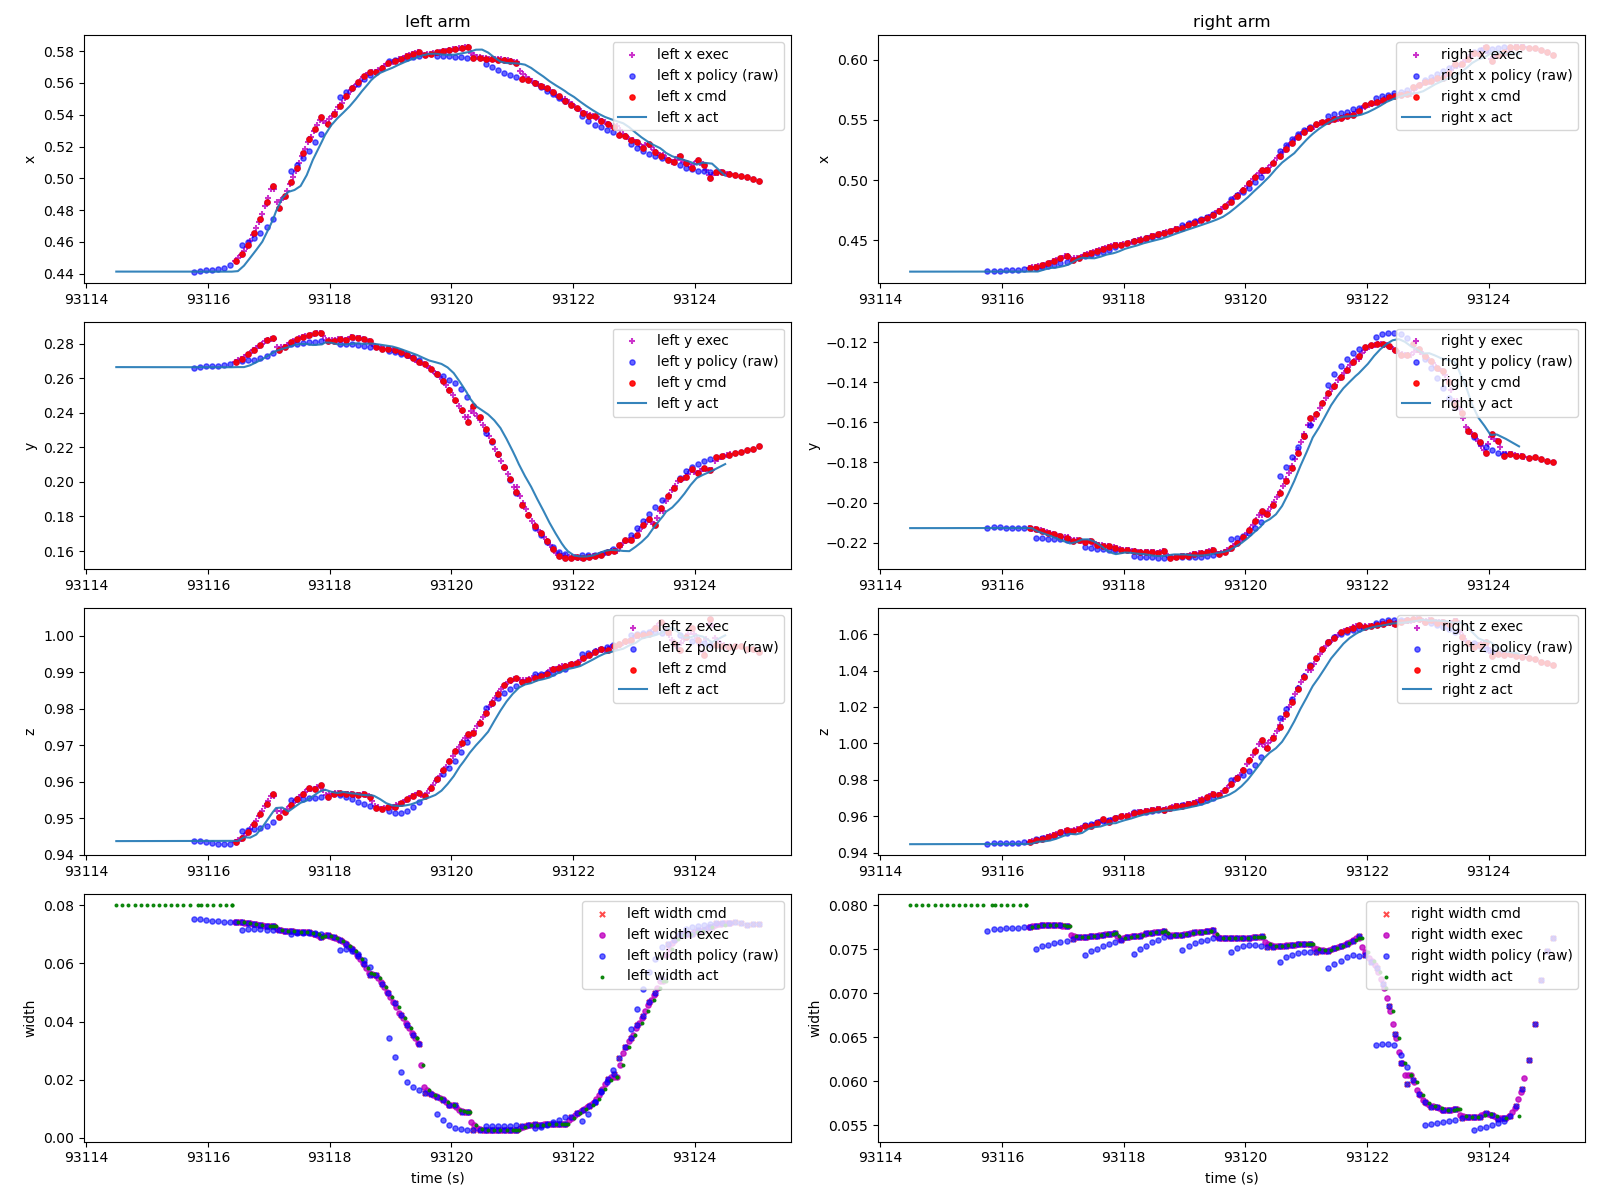
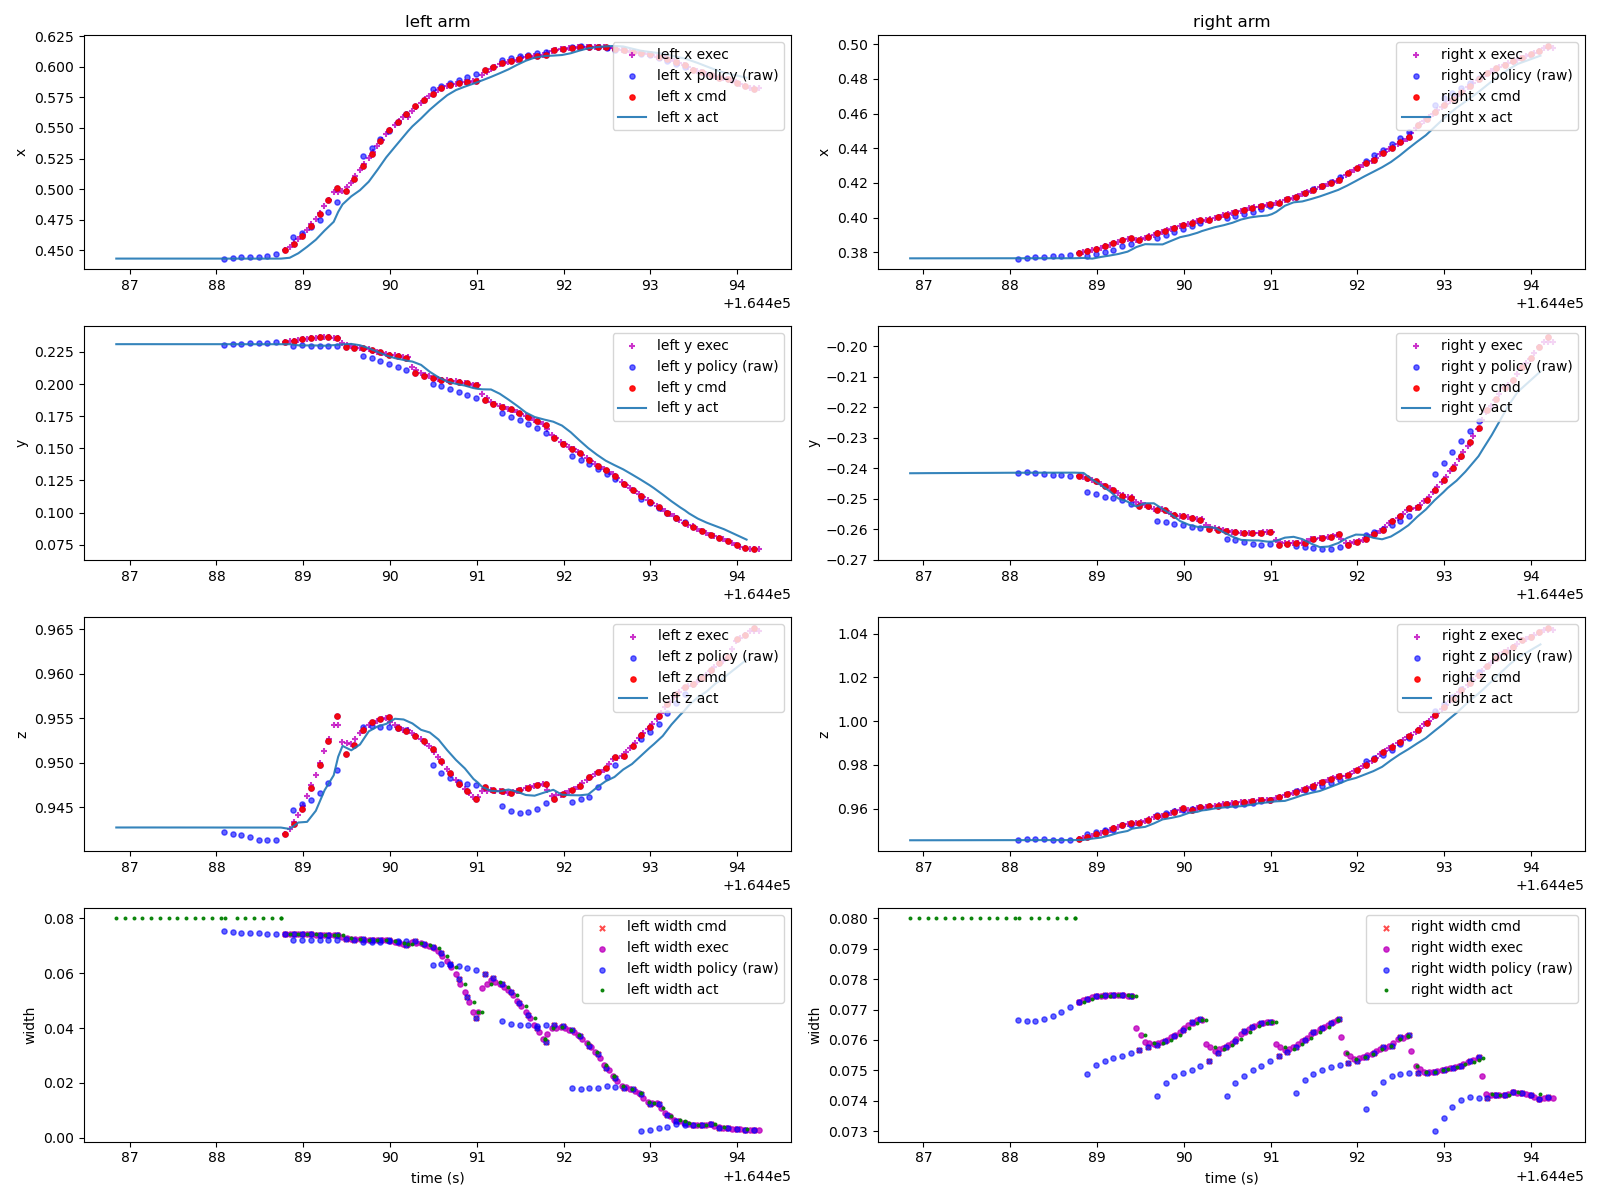
updated

diff --git a/scripts/rby1_policy_streaming.py b/scripts/rby1_policy_streaming.py
@@ -210,10 +210,6 @@ def build_scheduled_actions(
     if not actions_tf:
         return []
 
-    length = max(arr.shape[0] for arr in actions_tf.values() if arr is not None)
-    if length == 0:
-        return []
-
     timestamps = np.asarray(timestamps, dtype=float).reshape(-1)
 
     def _timestamp_for_index(idx: int) -> float:
@@ -225,38 +221,86 @@ def build_scheduled_actions(
             return now + fallback_dt * (idx + 1)
         return ts
 
+    eef_length = max(
+        (
+            np.asarray(actions_tf[key]).shape[0]
+            for key in OBS_TF_KEYS.values()
+            if key in actions_tf and actions_tf[key] is not None
+        ),
+        default=0,
+    )
+    gripper_length = max(
+        (
+            np.asarray(actions_tf[key]).shape[0]
+            for key in ("gripper_left_gripper_width", "gripper_right_gripper_width")
+            if key in actions_tf and actions_tf[key] is not None
+        ),
+        default=0,
+    )
+
+    if eef_length == 0 and gripper_length == 0:
+        return []
+
     scheduled: List[ScheduledAction] = []
-    for idx in range(length):
-        payload: Dict[str, np.ndarray] = {}
-        for effector, obs_key in OBS_TF_KEYS.items():
-            if obs_key not in actions_tf:
+    if eef_length > 0:
+        for idx in range(eef_length):
+            payload: Dict[str, np.ndarray] = {}
+            for effector, obs_key in OBS_TF_KEYS.items():
+                if obs_key not in actions_tf:
+                    continue
+                tf_series = np.asarray(actions_tf[obs_key], dtype=float)
+                if idx >= tf_series.shape[0]:
+                    continue
+                payload[PAYLOAD_TF_KEYS[effector]] = tf_series[idx]
+
+            for effector, key in PAYLOAD_TF_KEYS.items():
+                if key in payload and effector in TCP_TO_MODEL_FRAME:
+                    payload[key] = _apply_transform_tf(payload[key], TCP_TO_MODEL_FRAME[effector])
+
+            if not payload:
                 continue
-            tf_series = np.asarray(actions_tf[obs_key], dtype=float)
-            if idx >= tf_series.shape[0]:
+
+            timestamp = _timestamp_for_index(idx)
+            if idx + 1 < eef_length:
+                next_timestamp = _timestamp_for_index(idx + 1)
+                duration = float(max(fallback_dt, next_timestamp - timestamp))
+            else:
+                duration = float(fallback_dt)
+
+            scheduled.append(ScheduledAction(timestamp=timestamp, duration=duration, payload=payload))
+
+    if gripper_length > 0:
+        for idx in range(gripper_length):
+            payload: Dict[str, np.ndarray] = {}
+            if "gripper_left_gripper_width" in actions_tf:
+                width_series = np.asarray(actions_tf["gripper_left_gripper_width"], dtype=float)
+                if idx < width_series.shape[0]:
+                    payload["left_gripper_width"] = np.clip(
+                        float(width_series[idx].reshape(-1)[0]) - 0.003, GRIPPER_WIDTH_LIMITS[0], GRIPPER_WIDTH_LIMITS[1]
+                    )
+            if "gripper_right_gripper_width" in actions_tf:
+                width_series = np.asarray(actions_tf["gripper_right_gripper_width"], dtype=float)
+                if idx < width_series.shape[0]:
+                    payload["right_gripper_width"] = np.clip(
+                        float(width_series[idx].reshape(-1)[0]) - 0.003, GRIPPER_WIDTH_LIMITS[0], GRIPPER_WIDTH_LIMITS[1]
+                    )
+
+            if not payload:
                 continue
-            payload[PAYLOAD_TF_KEYS[effector]] = tf_series[idx]
-        if "gripper_left_gripper_width" in actions_tf:
-            payload["left_gripper_width"] = np.clip(float(actions_tf["gripper_left_gripper_width"][idx].reshape(-1)[0]) - 0.003, GRIPPER_WIDTH_LIMITS[0], GRIPPER_WIDTH_LIMITS[1])
-        if "gripper_right_gripper_width" in actions_tf:
-            payload["right_gripper_width"] = np.clip(float(actions_tf["gripper_right_gripper_width"][idx].reshape(-1)[0]) - 0.003, GRIPPER_WIDTH_LIMITS[0], GRIPPER_WIDTH_LIMITS[1])
 
-        for effector, key in PAYLOAD_TF_KEYS.items():
-            if key in payload and effector in TCP_TO_MODEL_FRAME:
-                payload[key] = _apply_transform_tf(payload[key], TCP_TO_MODEL_FRAME[effector])
+            timestamp = _timestamp_for_index(idx)
+            if idx + 1 < gripper_length:
+                next_timestamp = _timestamp_for_index(idx + 1)
+                duration = float(max(fallback_dt, next_timestamp - timestamp))
+            else:
+                duration = float(fallback_dt)
 
-        timestamp = _timestamp_for_index(idx)
-        # if timestamp <= now:
-        #     # Drop commands that are already stale.
-        #     continue
+            scheduled.append(ScheduledAction(timestamp=timestamp, duration=duration, payload=payload))
 
-        if idx + 1 < length:
-            next_timestamp = _timestamp_for_index(idx + 1)
-            duration = float(max(fallback_dt, next_timestamp - timestamp))
-        else:
-            duration = float(fallback_dt)
+    if not scheduled:
+        return []
 
-        scheduled.append(ScheduledAction(timestamp=timestamp, duration=duration, payload=payload))
-
+    scheduled.sort(key=lambda a: a.timestamp)
     return scheduled
 
 def _plot_action_chunk(
@@ -290,8 +334,7 @@ def _plot_action_chunk(
         for action in actions:
             payload = action.payload
             if payload_key not in payload:
-                coords = []
-                break
+                continue
             tf = np.asarray(payload[payload_key], dtype=float).reshape(4, 4)
             coords.append(tf[:3, 3])
             rots.append(Rotation.from_matrix(tf[:3, :3]).as_rotvec())
@@ -310,10 +353,10 @@ def _plot_action_chunk(
         for action in actions:
             payload = action.payload
             if key not in payload:
-                break
+                continue
             value = np.asarray(payload[key], dtype=float).reshape(-1)
             values.append(value)
-        else:
+        if values:
             stacked = np.vstack(values)
             if stacked.ndim == 1:
                 stacked = stacked[:, None]
@@ -758,11 +801,11 @@ def main() -> None:
                     obs_dict.update(camera_obs)
 
                 obs_dict["timestamp"] = anchor_timestamps
-
+                # Policy inference
                 infer_start = time.monotonic()
                 reply = policy_client.infer(obs_dict)
                 infer_end = time.monotonic()
-                print(f"[policy] observation timestamps: {anchor_timestamps}, action timestamps: {reply.get('timestamps', None) if reply else None}")
+                # print(f"[policy] observation timestamps: {anchor_timestamps}, action timestamps: {reply.get('timestamps', None) if reply else None}")
                 if reply is None or "actions_tf" not in reply:
                     print("[policy] Inference timeout or malformed reply")
                     if stop_event.wait(timeout=control_dt):
@@ -835,7 +878,7 @@ def main() -> None:
                                 f"arm execution latency (>{arm_cutoff:.3f}s)."
                             )
                         print(msg)
-                        # substract the execution latency to keep the action timing consistent
+                        # Lookahead effect - substract the execution latency to keep the action timing consistent
                         action_timestamps -= max(args.executor_lookahead, args.arm_execution_latency, 0.0)
                         if args.plot_tracking:
                             # add all actions and timestamps, including the ones being skipped

diff --git a/scripts/measure_robot_latency.py b/scripts/measure_robot_latency.py
@@ -13,6 +13,7 @@ from typing import Dict, MutableMapping, Sequence, Tuple
 
 import numpy as np
 from scipy import signal
+from scipy.spatial.transform import Rotation
 
 PROJECT_ROOT = Path(__file__).resolve().parents[1]
 if str(PROJECT_ROOT) not in sys.path:
@@ -105,10 +106,16 @@ def main() -> None:
     parser = argparse.ArgumentParser(description="Measure robot execution latency")
     parser.add_argument("--duration", type=float, default=20.0, help="Total duration in seconds")
     parser.add_argument("--frequency", type=float, default=1.0, help="Sine wave frequency in Hz")
-    parser.add_argument("--amplitude", type=float, default=0.03, help="Sine wave amplitude in meters")
+    parser.add_argument("--amplitude", type=float, default=0.03, help="Sine wave amplitude in meters (or radians for head)")
     parser.add_argument("--sample-rate", type=float, default=20.0, help="Command/update rate in Hz")
-    parser.add_argument("--axis", choices=["x", "y", "z"], default="x", help="Axis to oscillate")
-    parser.add_argument("--arm", choices=["left", "right"], default="right", help="Arm to command")
+    parser.add_argument("--axis", choices=["x", "y", "z"], default="x", help="Axis to oscillate (arms)")
+    parser.add_argument("--arm", choices=["left", "right", "head"], default="right", help="Effector to command")
+    parser.add_argument(
+        "--head-axis",
+        choices=["roll", "pitch", "yaw"],
+        default="yaw",
+        help="Rotation axis to oscillate when --arm=head",
+    )
     parser.add_argument("--use-sim", action="store_true", help="Run against the MuJoCo simulation backend")
     parser.add_argument("--output-csv", type=str, default=None, help="Optional CSV path for debugging traces")
     parser.add_argument("--output-plot", type=str, default=None, help="Optional PNG path for plotting traces")
@@ -123,13 +130,13 @@ def main() -> None:
     right_tf = obs["gripper_right_tf"][0]
     head_tf = obs["head_tf"][0]
 
-    active_tf = left_tf if args.arm == "left" else right_tf
+    active_tf = left_tf if args.arm == "left" else right_tf if args.arm == "right" else head_tf
     base_pose = np.array(active_tf, dtype=float)
 
     stop_flag: Dict[str, bool] = {"stop": False}
     _install_sigint_handler(stop_flag)
 
-    axis_index = {"x": 0, "y": 1, "z": 2}[args.axis]
+    axis_index = {"x": 0, "y": 1, "z": 2}.get(args.axis, 0)
     command_period = 1.0 / max(args.sample_rate, 1e-3)
     start_time = time.monotonic()
     commands: list[Tuple[float, float]] = []
@@ -141,25 +148,36 @@ def main() -> None:
         phase = now - start_time
         offset = args.amplitude * math.sin(2.0 * math.pi * args.frequency * phase)
 
-        target_tf = np.array(base_pose, dtype=float)
-        target_tf[axis_index, 3] = base_pose[axis_index, 3] + offset
+        if args.arm == "head":
+            axis_vec = {"roll": np.array([1.0, 0.0, 0.0]), "pitch": np.array([0.0, 1.0, 0.0]), "yaw": np.array([0.0, 0.0, 1.0])}[
+                args.head_axis
+            ]
+            base_rot = Rotation.from_matrix(base_pose[:3, :3])
+            delta_rot = Rotation.from_rotvec(axis_vec * offset)
+            target_rot = (delta_rot * base_rot).as_matrix()
+            target_tf = np.array(base_pose, dtype=float)
+            target_tf[:3, :3] = target_rot
+        else:
+            target_tf = np.array(base_pose, dtype=float)
+            target_tf[axis_index, 3] = base_pose[axis_index, 3] + offset
 
         payload = {
             "left_tf": target_tf if args.arm == "left" else left_tf,
             "right_tf": target_tf if args.arm == "right" else right_tf,
-            "head_tf": head_tf,
+            "head_tf": target_tf if args.arm == "head" else head_tf,
         }
         robot.apply_action(payload, duration=command_period, timestamp=now)
         commands.append((now, offset))
 
         obs = robot.get_observation_window(horizon=1)
-        measured_tf = obs["gripper_left_tf" if args.arm == "left" else "gripper_right_tf"][0]
-        measurements.append(
-            (
-                float(obs["timestamp"][-1]),
-                float(np.asarray(measured_tf[axis_index, 3] - base_pose[axis_index, 3]).item()),
-            )
-        )
+        if args.arm == "head":
+            measured_tf = obs["head_tf"][0]
+            rel_rot = Rotation.from_matrix(measured_tf[:3, :3]) * Rotation.from_matrix(base_pose[:3, :3]).inv()
+            meas_offset = float(np.dot(rel_rot.as_rotvec(), axis_vec))
+        else:
+            measured_tf = obs["gripper_left_tf" if args.arm == "left" else "gripper_right_tf"][0]
+            meas_offset = float(np.asarray(measured_tf[axis_index, 3] - base_pose[axis_index, 3]).item())
+        measurements.append((float(obs["timestamp"][-1]), meas_offset))
 
         sleep_dt = command_period - (time.monotonic() - now)
         if sleep_dt > 0:
@@ -194,3 +212,7 @@ def main() -> None:
 
 if __name__ == "__main__":
     main()
+
+# under 10Hz
+# yaw: 0.3006s
+# pitch: 0.3254s

diff --git a/control/rby1_realtime.py b/control/rby1_realtime.py
@@ -27,7 +27,7 @@ import time
 from collections import deque
 from dataclasses import dataclass
 from pathlib import Path
-from typing import Any, Deque, Dict, Iterable, Optional, Sequence
+from typing import Any, Callable, Deque, Dict, Iterable, Optional, Sequence
 
 import mujoco
 import numpy as np
@@ -667,35 +667,56 @@ class RBY1PolicyRobot:
         return payload
 
     def _sample_scheduled_payload(self, query_time: float) -> Optional[Dict[str, np.ndarray]]:
-        result: Optional[Dict[str, np.ndarray]] = None
-        with self._action_lock:
-            # # Drop stale entries while keeping the most recent past sample for interpolation.
-            # while len(self._action_buffer) >= 2 and self._action_buffer[0].timestamp <= query_time:
-            #     self._action_buffer.popleft()
+        def _contains_tf(payload: Dict[str, np.ndarray]) -> bool:
+            return any(k.endswith("_tf") for k in payload)
 
+        def _contains_gripper(payload: Dict[str, np.ndarray]) -> bool:
+            return any("gripper_width" in k for k in payload)
+
+        def _select_actions(predicate: Callable[[Dict[str, np.ndarray]], bool]) -> tuple[Optional[ScheduledAction], Optional[ScheduledAction]]:
             previous: Optional[ScheduledAction] = None
             future: Optional[ScheduledAction] = None
             for action in self._action_buffer:
+                if not predicate(action.payload):
+                    continue
                 if action.timestamp > query_time:
                     future = action
                     break
                 previous = action
-
-            if self._last_executed_action and self._last_executed_action.timestamp <= query_time:
+            if (
+                self._last_executed_action
+                and self._last_executed_action.timestamp <= query_time
+                and predicate(self._last_executed_action.payload)
+            ):
                 previous = self._last_executed_action
+            return previous, future
 
-            if previous is None and not self._action_buffer:
-                result = None
-            elif previous is None:
-                result = dict(self._action_buffer[0].payload)
+        def _resolve_payload(previous: Optional[ScheduledAction], future: Optional[ScheduledAction], key_filter: Callable[[str], bool]) -> Optional[Dict[str, np.ndarray]]:
+            if previous is None and future is None:
+                return None
+            if previous is None:
+                payload = dict(future.payload)
             elif future is None:
-                result = dict(previous.payload)
+                payload = dict(previous.payload)
             else:
-                print(f"Interpolating action at t={query_time} between {previous.timestamp} and {future.timestamp}")  # pragma: no cover - debug aid
-                result = self._interpolate_actions(previous, future, query_time)
+                payload = self._interpolate_actions(previous, future, query_time)
+            return {k: v for k, v in payload.items() if key_filter(k)}
 
-        if result is None:
+        with self._action_lock:
+            eef_prev, eef_future = _select_actions(_contains_tf)
+            gripper_prev, gripper_future = _select_actions(_contains_gripper)
+
+        eef_payload = _resolve_payload(eef_prev, eef_future, lambda k: k.endswith("_tf"))
+        gripper_payload = _resolve_payload(gripper_prev, gripper_future, lambda k: "gripper_width" in k)
+
+        if eef_payload is None and gripper_payload is None:
             return None
+
+        result: Dict[str, np.ndarray] = {}
+        if eef_payload is not None:
+            result.update(eef_payload)
+        if gripper_payload is not None:
+            result.update(gripper_payload)
 
         for key in ("left_gripper_width", "right_gripper_width"):
             if key in result:
